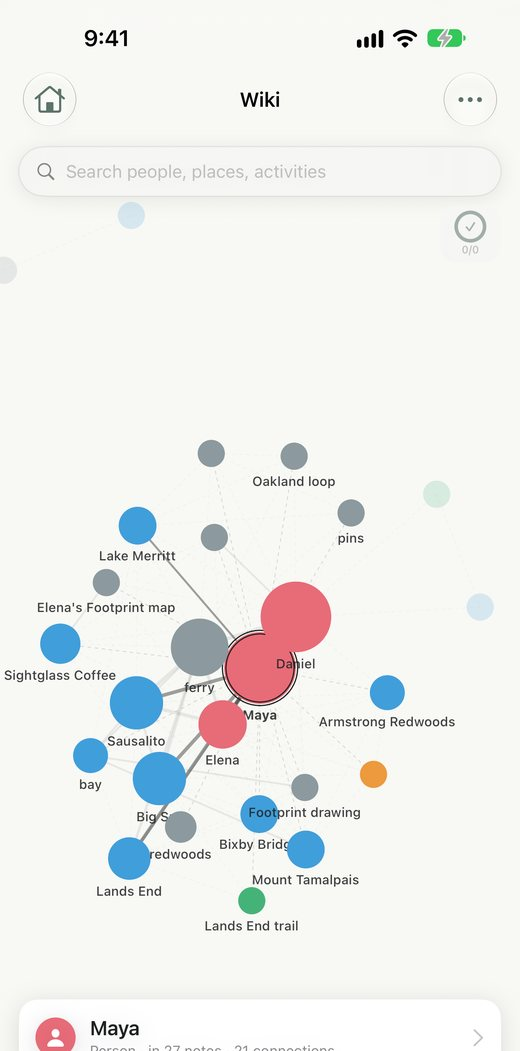
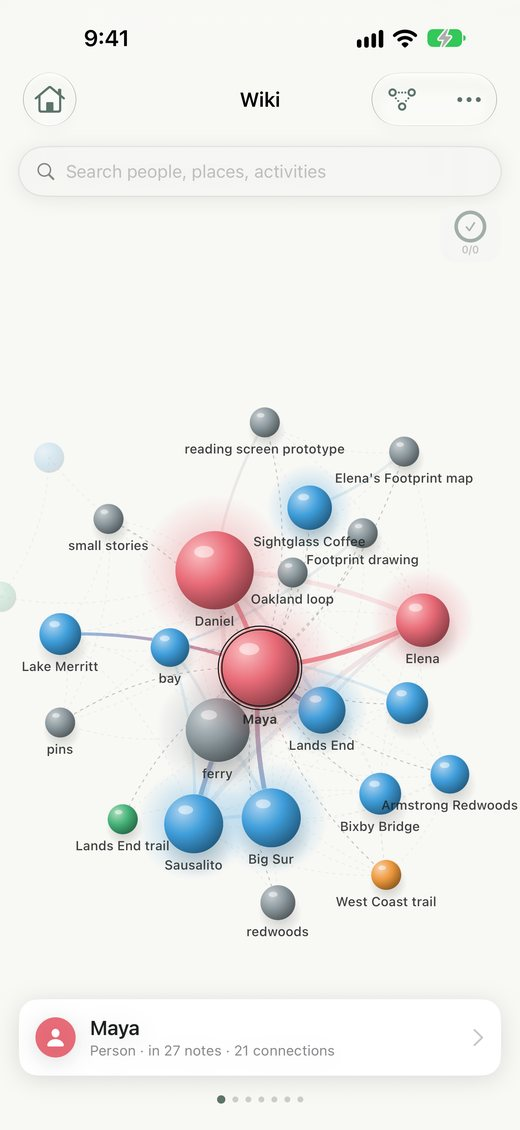
Update website (1527193)

diff --git a/index.html b/index.html
@@ -65,7 +65,12 @@
       <article class="fcard c2 reveal">
         <h3>Knowledge base <span class="badge-plus">Plus</span></h3>
         <p>The people, places and topics in your notes, and how they connect. Open any one to see every note that mentions it, or export it all as Markdown for Obsidian.</p>
-        <img class="shot" src="/img/w-wiki.jpg" alt="The knowledge base graph" width="520" height="1056" loading="lazy">
+        <img class="shot" src="/img/w-wiki.jpg" alt="The knowledge base graph" width="520" height="1130" loading="lazy">
+      </article>
+      <article class="fcard c2 reveal">
+        <h3>Dashboard</h3>
+        <p>A month of your notes at a glance: what you captured, when, and what you still meant to do.</p>
+        <img class="shot" src="/img/w-dashboard.jpg" alt="Dashboard: notes over time and the actions behind them" width="520" height="1130" loading="lazy">
       </article>
     </div>
   </div>
